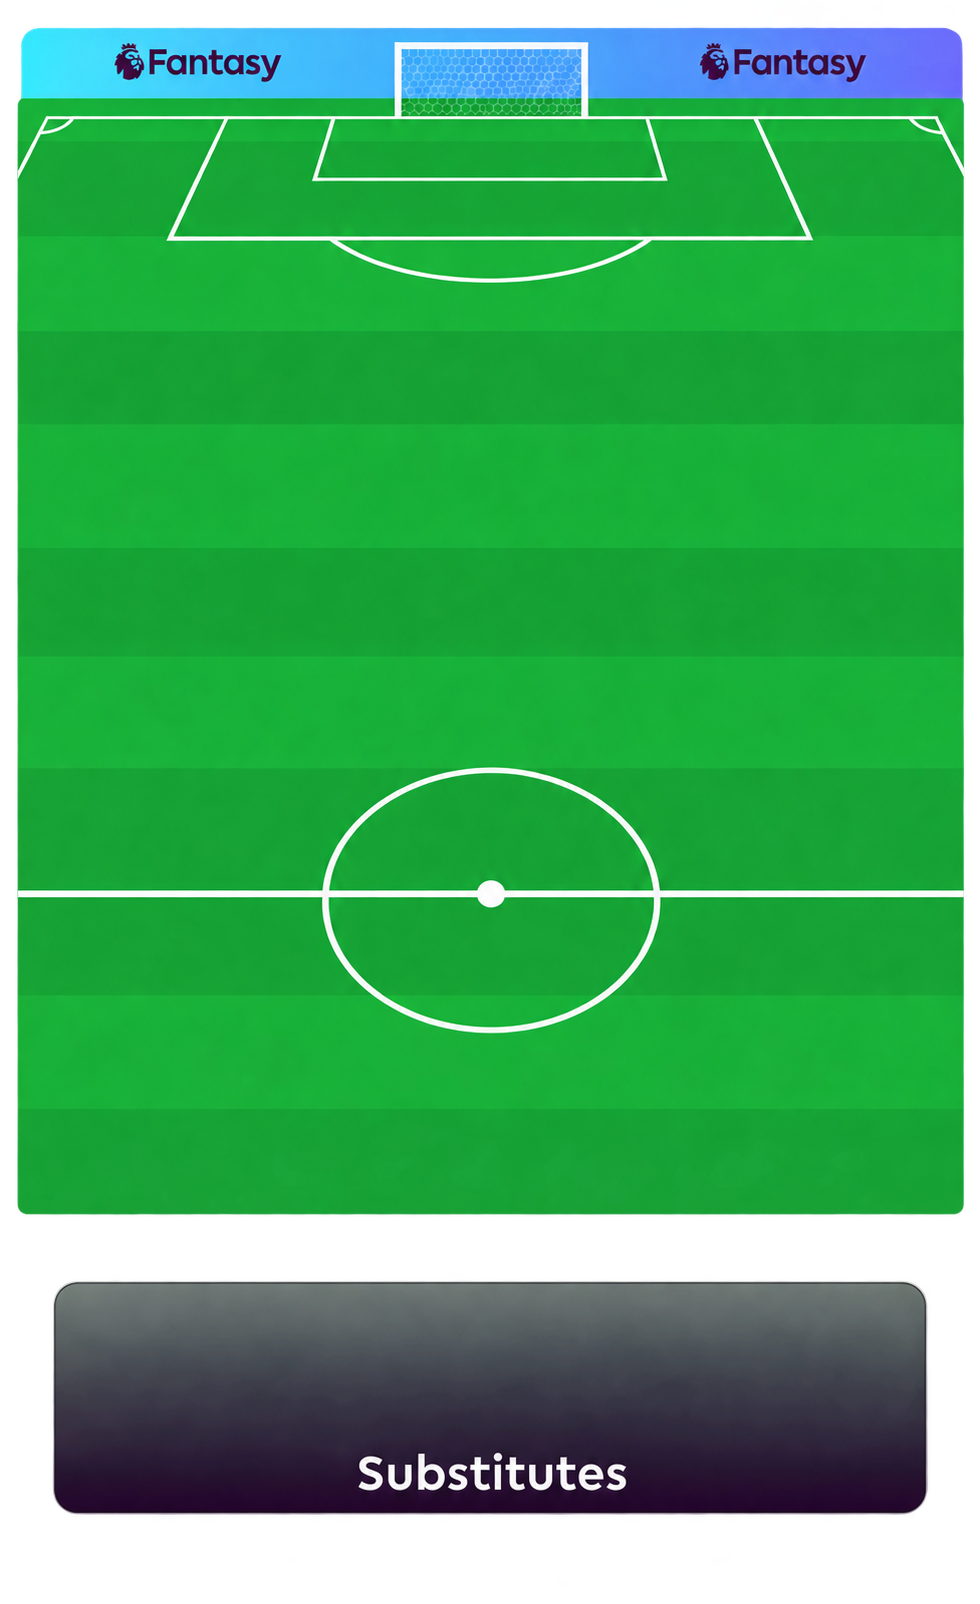
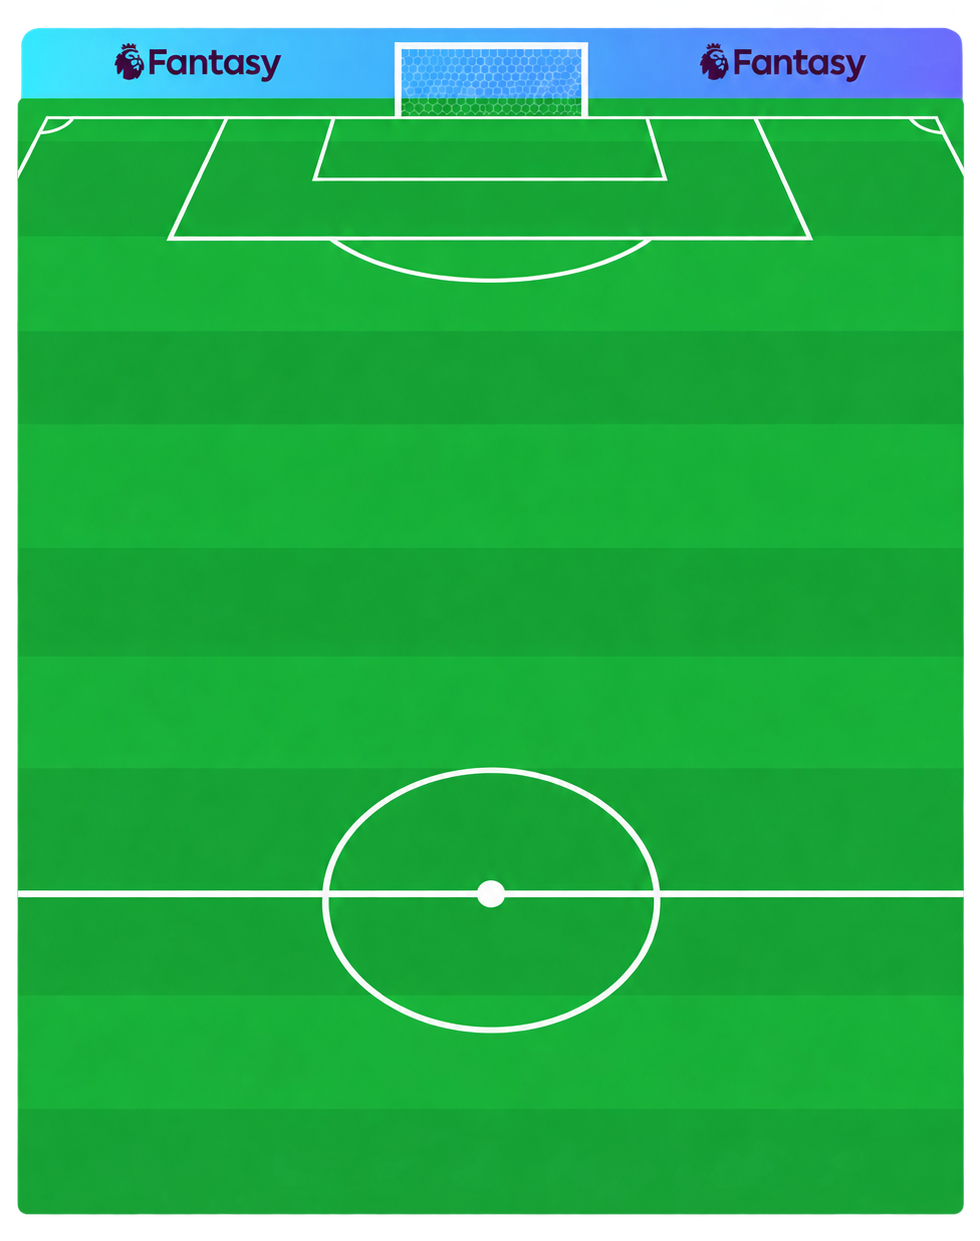
1

diff --git a/src/components/PlayerCard.jsx b/src/components/PlayerCard.jsx
@@ -1,81 +1,82 @@
-export default function PlayerCard({ 
-  player, 
+import PlayerCard from './PlayerCard';
+
+export default function PitchView({ 
+  squad, 
+  subs, 
   currentGw, 
-  isCaptain = false, 
-  isVice = false, 
-  benchLabel = null,
-  isBench = false
+  captain, 
+  vice, 
+  benchLabels 
 }) {
-  if (!player) return null;
-
-  const points = player.proj && player.proj[String(currentGw)] !== undefined 
-    ? parseFloat(player.proj[String(currentGw)]).toFixed(1) 
-    : '0.0';
-    
-  const fixtureRaw = player.fixtures && player.fixtures[String(currentGw)] ? String(player.fixtures[String(currentGw)]) : "";
-  const fixtureText = fixtureRaw ? fixtureRaw.replace("H ", "").replace("A ", "") + (fixtureRaw.startsWith("H") ? " (H)" : " (A)") : "";
-
-  // Dynamic classes based on whether it's a bench player
-  const cardWidth = isBench ? "w-[55px] sm:w-[65px] md:w-[75px]" : "w-[70px] sm:w-[85px] md:w-[105px]";
-  const shirtSize = isBench ? "w-10 h-10 sm:w-12 sm:h-12 md:w-14 md:h-14 mt-2 mb-0.5" : "w-12 h-12 sm:w-14 sm:h-14 md:w-20 md:h-20 mt-3 md:mt-4 mb-1";
-  const pointSize = isBench ? "w-4 h-4 md:w-5 md:h-5" : "w-5 h-5 md:w-7 md:h-7";
-  const pointText = isBench ? "text-[7px] md:text-[9px]" : "text-[8px] md:text-[11px]";
-  const nameText = isBench ? "text-[8px] md:text-[10px]" : "text-[9px] md:text-xs";
-  const fixtureTextSize = isBench ? "text-[6px] md:text-[7px]" : "text-[7px] md:text-[9px]";
+  const getPlayers = (arr, pos) => {
+    if (!Array.isArray(arr)) return [];
+    return arr.filter(p => p && p.position === pos);
+  };
 
   return (
-    <div className={`flex flex-col items-center group cursor-pointer relative ${cardWidth}`}>
+    <div className="w-full max-w-4xl mx-auto flex flex-col items-center animate-fade-in-up mt-4">
       
-      {/* CARD CONTAINER */}
-      <div className="w-full bg-[#150f18]/95 rounded-t-md border border-white/10 border-b-0 relative flex flex-col items-center pt-1 pb-0 transition-transform group-hover:-translate-y-1 shadow-lg">
+      {/* PITCH CONTAINER */}
+      <div className="relative w-full rounded-t-2xl overflow-hidden shadow-2xl border border-white/20 border-b-0">
         
-        {/* TOP LEFT ICONS (C / VC) */}
-        <div className="absolute top-1 left-1 z-20 flex flex-col gap-1">
-          {isCaptain && (
-            <div className={`${isBench ? 'w-3 h-3 text-[6px]' : 'w-4 h-4 md:w-6 md:h-6 text-[8px] md:text-xs'} rounded-full bg-[#ffd700] text-black flex items-center justify-center font-black shadow-[0_0_8px_rgba(255,215,0,0.6)] border border-white`}>
-              C
-            </div>
-          )}
-          {isVice && !isCaptain && (
-            <div className={`${isBench ? 'w-3 h-3 text-[5px]' : 'w-4 h-4 md:w-6 md:h-6 text-[7px] md:text-[10px]'} rounded-full bg-gray-300 text-black flex items-center justify-center font-black shadow-[0_0_8px_rgba(209,213,219,0.6)] border border-white`}>
-              VC
-            </div>
-          )}
-        </div>
+        {/* THE CROPPED PITCH IMAGE */}
+        <img 
+          src="/pitch.png" 
+          alt="FPL Pitch" 
+          className="w-full h-auto block pointer-events-none"
+        />
 
-        {/* TOP RIGHT POINTS */}
-        <div className={`absolute top-1 right-1 z-20 bg-[#37003c] text-white ${pointSize} rounded-full flex items-center justify-center shadow-lg border border-white/50`}>
-          <span className={`font-bold ${pointText}`}>{points}</span>
-        </div>
+        {/* PLAYERS OVERLAY */}
+        <div className="absolute inset-0 z-20 pointer-events-none">
+          
+          {/* GK Row */}
+          <div className="absolute top-[8%] w-full flex justify-center gap-2 pointer-events-auto">
+            {getPlayers(squad, 'GK').map((p, i) => (
+              <PlayerCard key={i} player={p} currentGw={currentGw} isCaptain={p.name === captain} isVice={p.name === vice} />
+            ))}
+          </div>
 
-        {/* Shirt */}
-        <div className={`${shirtSize} z-10`}>
-          <img 
-            src={player.shirt_url || 'https://fantasy.premierleague.com/dist/img/shirts/standard/shirt_0_1-110.png'}
-            alt={player.team || 'Team'}
-            className="w-full h-full object-contain drop-shadow-xl"
-            onError={(e) => { e.target.src = 'https://fantasy.premierleague.com/dist/img/shirts/standard/shirt_0_1-110.png'; }} 
-          />
-        </div>
+          {/* DEF Row */}
+          <div className="absolute top-[28%] w-full flex justify-center gap-1 md:gap-4 pointer-events-auto">
+            {getPlayers(squad, 'DEF').map((p, i) => (
+              <PlayerCard key={i} player={p} currentGw={currentGw} isCaptain={p.name === captain} isVice={p.name === vice} />
+            ))}
+          </div>
 
+          {/* MID Row */}
+          <div className="absolute top-[50%] w-full flex justify-center gap-1 md:gap-6 pointer-events-auto">
+            {getPlayers(squad, 'MID').map((p, i) => (
+              <PlayerCard key={i} player={p} currentGw={currentGw} isCaptain={p.name === captain} isVice={p.name === vice} />
+            ))}
+          </div>
+
+          {/* FWD Row */}
+          <div className="absolute top-[72%] w-full flex justify-center gap-1 md:gap-8 pointer-events-auto">
+            {getPlayers(squad, 'FWD').map((p, i) => (
+              <PlayerCard key={i} player={p} currentGw={currentGw} isCaptain={p.name === captain} isVice={p.name === vice} />
+            ))}
+          </div>
+
+        </div>
       </div>
 
-      {/* WHITE BOTTOM BOX */}
-      <div className="bg-white text-black w-full rounded-b-md shadow-md flex flex-col items-center py-0.5 z-20 relative">
-        <div className={`font-black ${nameText} truncate px-1 leading-tight text-center w-full mt-1`}>
-          {player.name || 'Player'}
-        </div>
-        <div className={`${fixtureTextSize} text-gray-500 font-bold text-center uppercase tracking-wide mb-1`}>
-          {fixtureText}
+      {/* THE BENCH - Custom Glass Box below the pitch */}
+      <div className="w-full bg-[#120016]/90 backdrop-blur-xl rounded-b-2xl border border-white/20 border-t-0 p-6 shadow-2xl flex flex-col items-center">
+        <h3 className="text-center text-[#00ff87] font-black mb-6 uppercase tracking-widest text-xs md:text-sm drop-shadow-[0_0_10px_rgba(0,255,135,0.4)]">
+          Substitutes
+        </h3>
+        <div className="flex justify-center gap-2 md:gap-8">
+          {Array.isArray(subs) && subs.map((p, i) => (
+            <PlayerCard 
+              key={i} 
+              player={p} 
+              currentGw={currentGw}
+              benchLabel={benchLabels && benchLabels[i] ? benchLabels[i] : undefined}
+            />
+          ))}
         </div>
       </div>
-
-      {/* BENCH LABEL */}
-      {benchLabel && (
-        <div className={`absolute -bottom-2 -right-2 z-30 px-1 md:px-1.5 py-0.5 rounded bg-[#37003c] text-[#00ff87] font-black ${isBench ? 'text-[6px] md:text-[7px]' : 'text-[7px] md:text-[9px]'} shadow-lg border border-[#00ff87]`}>
-          {benchLabel}
-        </div>
-      )}
+      
     </div>
   );
 }

diff --git a/src/components/PitchView.jsx b/src/components/PitchView.jsx
@@ -1,78 +1,72 @@
-import PlayerCard from './PlayerCard';
-
-export default function PitchView({ 
-  squad, 
-  subs, 
+export default function PlayerCard({ 
+  player, 
   currentGw, 
-  captain, 
-  vice, 
-  benchLabels 
+  isCaptain = false, 
+  isVice = false, 
+  benchLabel = null
 }) {
-  const getPlayers = (arr, pos) => {
-    if (!Array.isArray(arr)) return [];
-    return arr.filter(p => p && p.position === pos);
-  };
+  if (!player) return null;
+
+  const points = player.proj && player.proj[String(currentGw)] !== undefined 
+    ? parseFloat(player.proj[String(currentGw)]).toFixed(1) 
+    : '0.0';
+    
+  const fixtureRaw = player.fixtures && player.fixtures[String(currentGw)] ? String(player.fixtures[String(currentGw)]) : "";
+  const fixtureText = fixtureRaw ? fixtureRaw.replace("H ", "").replace("A ", "") + (fixtureRaw.startsWith("H") ? " (H)" : " (A)") : "";
 
   return (
-    <div className="w-full max-w-4xl mx-auto flex flex-col items-center animate-fade-in-up mt-4">
+    <div className="flex flex-col items-center w-[70px] sm:w-[85px] md:w-[105px] group cursor-pointer relative">
       
-      {/* PITCH CONTAINER */}
-      <div className="relative w-full rounded-2xl overflow-hidden shadow-2xl border border-white/20">
+      {/* CARD CONTAINER */}
+      <div className="w-full bg-[#150f18]/95 rounded-t-md border border-white/10 border-b-0 relative flex flex-col items-center pt-1 pb-0 transition-transform group-hover:-translate-y-1 shadow-lg">
         
-        {/* THE PITCH IMAGE */}
-        <img 
-          src="/pitch.png" 
-          alt="FPL Pitch" 
-          className="w-full h-auto block pointer-events-none"
-        />
+        {/* TOP LEFT ICONS (C / VC) */}
+        <div className="absolute top-1 left-1 z-20 flex flex-col gap-1">
+          {isCaptain && (
+            <div className="w-4 h-4 md:w-6 md:h-6 rounded-full bg-[#ffd700] text-black flex items-center justify-center font-black text-[8px] md:text-xs shadow-[0_0_8px_rgba(255,215,0,0.6)] border border-white">
+              C
+            </div>
+          )}
+          {isVice && !isCaptain && (
+            <div className="w-4 h-4 md:w-6 md:h-6 rounded-full bg-gray-300 text-black flex items-center justify-center font-black text-[7px] md:text-[10px] shadow-[0_0_8px_rgba(209,213,219,0.6)] border border-white">
+              VC
+            </div>
+          )}
+        </div>
 
-        {/* PLAYERS OVERLAY */}
-        <div className="absolute inset-0 z-20 pointer-events-none">
-          
-          {/* GK Row */}
-          <div className="absolute top-[6%] w-full flex justify-center gap-2 pointer-events-auto">
-            {getPlayers(squad, 'GK').map((p, i) => (
-              <PlayerCard key={i} player={p} currentGw={currentGw} isCaptain={p.name === captain} isVice={p.name === vice} />
-            ))}
-          </div>
+        {/* TOP RIGHT POINTS */}
+        <div className="absolute top-1 right-1 z-20 bg-[#37003c] text-white w-5 h-5 md:w-7 md:h-7 rounded-full flex items-center justify-center shadow-lg border border-white/50">
+          <span className="font-bold text-[8px] md:text-[11px]">{points}</span>
+        </div>
 
-          {/* DEF Row */}
-          <div className="absolute top-[24%] w-full flex justify-center gap-1 md:gap-4 pointer-events-auto">
-            {getPlayers(squad, 'DEF').map((p, i) => (
-              <PlayerCard key={i} player={p} currentGw={currentGw} isCaptain={p.name === captain} isVice={p.name === vice} />
-            ))}
-          </div>
+        {/* Shirt */}
+        <div className="w-12 h-12 sm:w-14 sm:h-14 md:w-20 md:h-20 z-10 mt-3 md:mt-4 mb-1">
+          <img 
+            src={player.shirt_url || 'https://fantasy.premierleague.com/dist/img/shirts/standard/shirt_0_1-110.png'}
+            alt={player.team || 'Team'}
+            className="w-full h-full object-contain drop-shadow-xl"
+            onError={(e) => { e.target.src = 'https://fantasy.premierleague.com/dist/img/shirts/standard/shirt_0_1-110.png'; }} 
+          />
+        </div>
 
-          {/* MID Row */}
-          <div className="absolute top-[43%] w-full flex justify-center gap-1 md:gap-6 pointer-events-auto">
-            {getPlayers(squad, 'MID').map((p, i) => (
-              <PlayerCard key={i} player={p} currentGw={currentGw} isCaptain={p.name === captain} isVice={p.name === vice} />
-            ))}
-          </div>
+      </div>
 
-          {/* FWD Row */}
-          <div className="absolute top-[62%] w-full flex justify-center gap-1 md:gap-8 pointer-events-auto">
-            {getPlayers(squad, 'FWD').map((p, i) => (
-              <PlayerCard key={i} player={p} currentGw={currentGw} isCaptain={p.name === captain} isVice={p.name === vice} />
-            ))}
-          </div>
-
-          {/* THE BENCH - Brought down to bottom-[5%], passes isBench=true */}
-          <div className="absolute bottom-[5%] w-full flex justify-center gap-2 md:gap-6 pointer-events-auto">
-            {Array.isArray(subs) && subs.map((p, i) => (
-              <PlayerCard 
-                key={i} 
-                player={p} 
-                currentGw={currentGw}
-                benchLabel={benchLabels && benchLabels[i] ? benchLabels[i] : undefined}
-                isBench={true}
-              />
-            ))}
-          </div>
-
+      {/* WHITE BOTTOM BOX */}
+      <div className="bg-white text-black w-full rounded-b-md shadow-md flex flex-col items-center py-0.5 z-20 relative">
+        <div className="font-black text-[9px] md:text-xs truncate px-1 leading-tight text-center w-full mt-1">
+          {player.name || 'Player'}
+        </div>
+        <div className="text-[7px] md:text-[9px] text-gray-500 font-bold text-center uppercase tracking-wide mb-1">
+          {fixtureText}
         </div>
       </div>
-      
+
+      {/* BENCH LABEL */}
+      {benchLabel && (
+        <div className="absolute -bottom-2 -right-2 z-30 px-1 md:px-1.5 py-0.5 rounded bg-[#37003c] text-[#00ff87] font-black text-[7px] md:text-[9px] shadow-lg border border-[#00ff87]">
+          {benchLabel}
+        </div>
+      )}
     </div>
   );
 }
